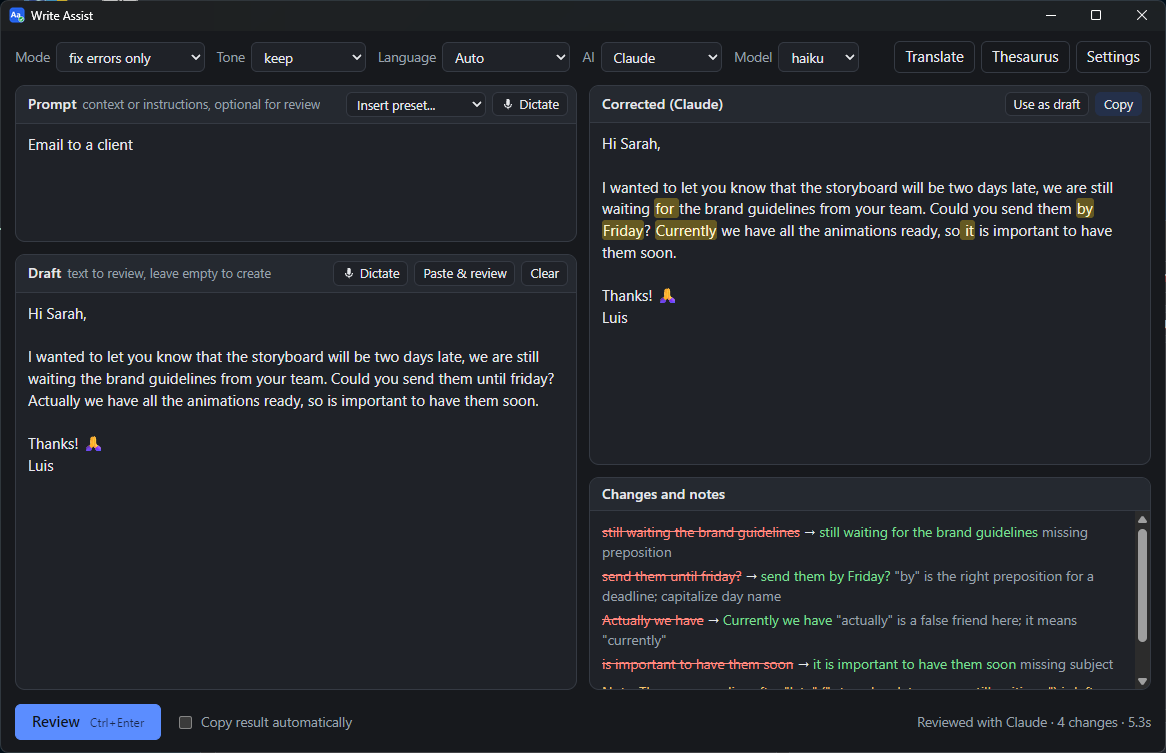
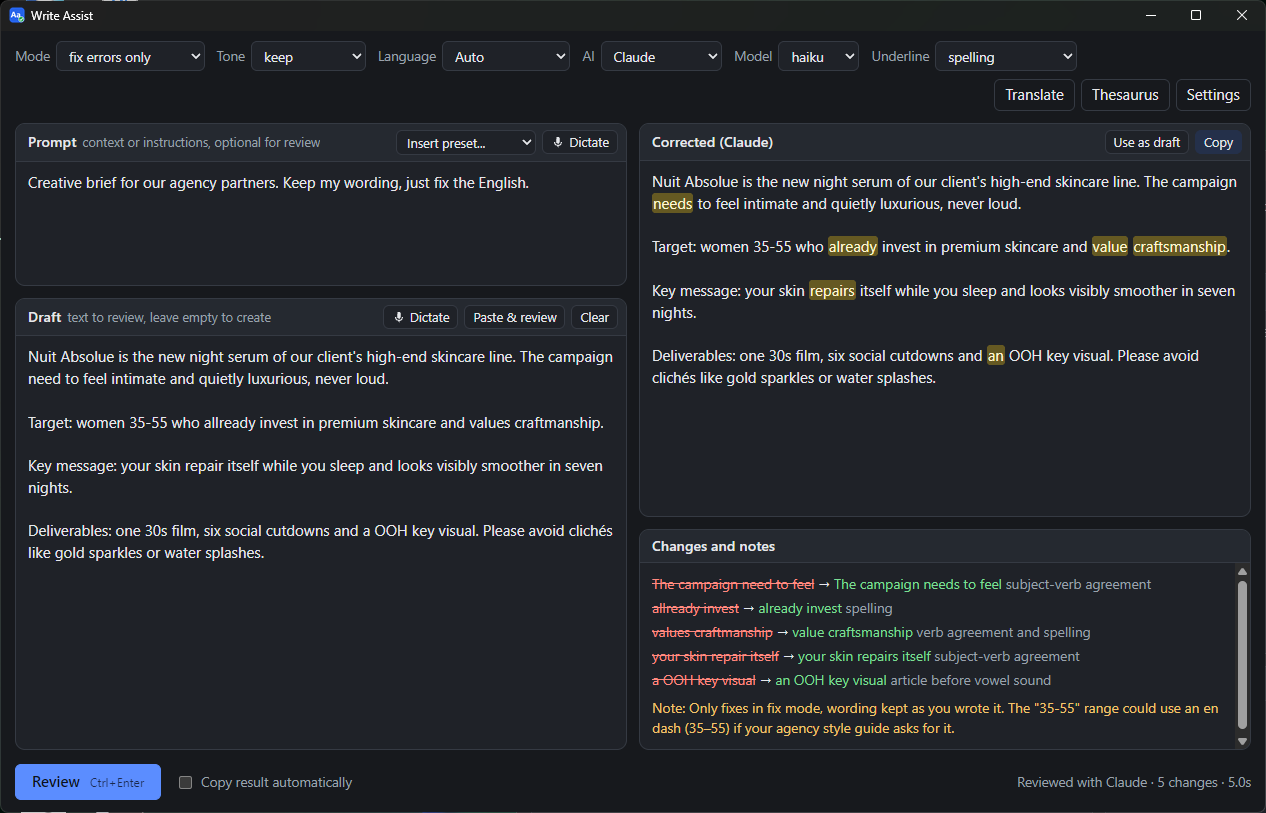
v02.08.03: French interface, French dictation option, no repeated changes; new README screenshots

diff --git a/ui/i18n.js b/ui/i18n.js
@@ -1,11 +1,11 @@
 // i18n.js
-// Interface strings of Write Assist in English and Spanish, and the helpers
+// Interface strings of Write Assist in English, Spanish and French, and the helpers
 // that apply them: t(key, vars) for text built in app.js, and data-i18n*
 // attributes for the static text in index.html.
 //
 // Author:  Luis Martinez
 // Email:   16788942+luigihmtz@users.noreply.github.com
-// Version: v01.07.00
+// Version: v01.08.00
 // Date:    2026-11-25
 //
 // Usage: loaded by ui/index.html before app.js. In index.html:
@@ -168,6 +168,7 @@ const STRINGS = {
     "settings.detect": "Detect automatically",
     "settings.english": "English",
     "settings.spanish": "Spanish",
+    "settings.french": "French",
     "settings.microphone": "Microphone for dictation",
     "settings.micDefault": "Same as Windows",
     "speech.micMissing": "\"{name}\" isn't connected, so the Windows default microphone is used.",
@@ -348,6 +349,7 @@ const STRINGS = {
     "settings.detect": "Detectar automáticamente",
     "settings.english": "Inglés",
     "settings.spanish": "Español",
+    "settings.french": "Francés",
     "settings.microphone": "Micrófono para dictar",
     "settings.micDefault": "El mismo que Windows",
     "speech.micMissing": "\"{name}\" no está conectado, así que se usa el micrófono predeterminado de Windows.",
@@ -381,6 +383,186 @@ const STRINGS = {
     "update.title": "¿Actualizar Write Assist?",
     "update.text": "¿Actualizar de {from} a {to}? La aplicación se cierra, una ventana muestra la actualización y la aplicación se vuelve a abrir.",
     "update.yes": "Actualizar",
+  },
+
+  fr: {
+    "mode": "Mode",
+    "mode.title": "Révision seulement : à quel point modifier le brouillon",
+    "mode.fix": "corriger les fautes",
+    "mode.fix.title": "Orthographe, coquilles, grammaire, ponctuation. Modifications minimales.",
+    "mode.polish": "corriger et améliorer",
+    "mode.polish.title": "Améliore aussi les tournures maladroites ou peu claires.",
+    "tone": "Ton",
+    "tone.keep": "inchangé",
+    "tone.formal": "plus formel",
+    "tone.casual": "plus décontracté",
+    "tone.friendlier": "plus chaleureux",
+    "tone.concise": "plus concis",
+    "language": "Langue",
+    "language.title": "Langue du texte : la révision la respecte, la création l'utilise",
+    "language.auto": "Auto",
+    "ai": "IA",
+    "ai.local": "Locale (gratuite)",
+    "local.setupTitle": "Configurer l'IA locale gratuite ?",
+    "local.setupText": "Write Assist peut utiliser une IA gratuite qui fonctionne sur cet ordinateur : sans compte ni abonnement, hors ligne, et votre texte ne quitte jamais votre PC. Il faut un téléchargement unique d'environ {download} Go (l'application gratuite Ollama et le modèle {model}), soit environ {disk} Go d'espace disque. Une révision prend une ou deux secondes sur un PC rapide et jusqu'à une minute sur un portable plus ancien. Claude donne de meilleurs résultats si vous l'avez.",
+    "local.modelText": "Le modèle {model} est gratuit et fonctionne sur cet ordinateur ; votre texte ne quitte jamais votre PC. Il faut un téléchargement unique d'environ {download} Go.",
+    "local.download": "Télécharger",
+    "local.installing": "Installation d'Ollama, l'application gratuite d'IA locale (une seule fois, quelques minutes)...",
+    "local.downloading": "Téléchargement de l'IA locale gratuite... {percent} % ({done} sur {total} Go)",
+    "local.ready": "L'IA locale gratuite est prête.",
+    "local.notSetUp": "L'IA locale gratuite n'est pas encore configurée. Choisissez-la de nouveau, ou cliquez sur Réviser, pour la télécharger.",
+    "model": "Modèle",
+    "model.other": "Autre...",
+    "model.otherPrompt": "Nom du modèle, tel que l'IA l'accepte (p. ex. claude-sonnet-5-5) :",
+    "translate": "Traduire",
+    "translate.title": "Traduire le texte sélectionné (Ctrl+Maj+T)",
+    "thesaurus": "Synonymes",
+    "thesaurus.title": "Sens, synonymes et antonymes du mot sélectionné (Ctrl+T)",
+    "settings": "Paramètres",
+    "settings.title": "À propos de vous, raccourci, dictée, langue de l'interface",
+
+    "prompt": "Consigne",
+    "prompt.hint": "contexte ou instructions, facultatif pour la révision",
+    "prompt.placeholder": "p. ex. Courriel à un client, raccourcis-le",
+    "preset": "Insérer un modèle...",
+    "preset.title": "Insérer une consigne courante",
+    "draft": "Brouillon",
+    "draft.hint": "texte à réviser, laissez vide pour créer",
+    "draft.placeholder": "Collez ou tapez votre texte",
+    "dictate": "Dicter",
+    "dictate.prompt": "Dicter dans la Consigne",
+    "dictate.draft": "Dicter dans le Brouillon",
+    "dictate.stop": "Arrêter {time}",
+    "paste": "Coller et réviser",
+    "paste.title": "Coller le presse-papiers et réviser (Ctrl+Maj+V)",
+    "clear": "Effacer",
+    "result": "Résultat",
+    "result.placeholder": "Le texte corrigé ou rédigé s'affiche ici.",
+    "result.corrected": "Corrigé ({provider})",
+    "result.written": "Rédigé ({provider})",
+    "useDraft": "Utiliser comme brouillon",
+    "useDraft.title": "Placer le résultat dans le Brouillon",
+    "copy": "Copier",
+    "copy.title": "Copier le résultat (Ctrl+Maj+C)",
+    "changes": "Modifications et notes",
+    "changes.none": "Aucune modification nécessaire. C'est parfait.",
+    "changes.note": "Note : {text}",
+
+    "run.review": "Réviser",
+    "run.create": "Créer",
+    "autoCopy": "Copier le résultat automatiquement",
+    "update.button": "Mettre à jour vers {tag}",
+
+    "status.empty": "Collez un brouillon à réviser, ou écrivez une consigne pour créer un texte.",
+    "status.notInstalled": "{provider} n'est pas installé. Relancez le programme d'installation de Write Assist.",
+    "status.reviewing": "Révision avec {provider}... {seconds} s",
+    "status.writing": "Rédaction avec {provider}... {seconds} s",
+    "status.reviewed": "Révisé avec {provider} · {count} modifications",
+    "status.reviewedOne": "Révisé avec {provider} · 1 modification",
+    "status.written": "Rédigé avec {provider}",
+    "status.copiedSuffix": "copié",
+    "status.fallback": "{from} a atteint sa limite d'utilisation{why}, {provider} a pris le relais",
+    "status.copied": "Copié.",
+    "status.clipboardEmpty": "Le presse-papiers ne contient pas de texte.",
+    "status.settingsSaved": "Paramètres enregistrés.",
+    "status.settingsSavedHotkey": "Paramètres enregistrés. Raccourci : {message}",
+    "status.updateFailed": "Impossible de lancer la mise à jour : {error}",
+
+    "panel.detach": "Détacher : le panneau flotte, déplacez-le par sa barre de titre, redimensionnez-le par le coin",
+    "panel.dock": "Rattacher le panneau",
+    "th.back": "Revenir au mot précédent",
+    "th.search": "Tapez un mot et appuyez sur Entrée",
+    "th.close": "Fermer (Échap)",
+    "th.replace": "Remplacer",
+    "th.lookup": "Rechercher",
+    "th.replace.title": "Remplacer « {old} » par « {new} »",
+    "th.lookup.title": "Chercher « {word} » dans les synonymes",
+    "th.empty": "Sélectionnez un mot dans la Consigne, le Brouillon ou le résultat avant de cliquer sur Synonymes, ou tapez un mot ci-dessus et appuyez sur Entrée.",
+    "th.tooLong": "Sélectionnez un seul mot ou une courte expression.",
+    "th.looking": "Recherche de « {word} » avec {provider}...",
+    "th.target": "Cliquez sur un mot pour remplacer « {word} » dans votre texte, ou pour le rechercher.",
+    "th.meaning": "Sens",
+    "th.synonyms": "Synonymes",
+    "th.antonyms": "Antonymes",
+    "th.none": "Aucun",
+    "th.replaced": "« {old} » remplacé par « {new} ».",
+
+    "tr.to": "vers",
+    "tr.auto": "Anglais ⇄ Espagnol",
+    "tr.placeholder": "Sélectionnez du texte dans la Consigne, le Brouillon ou le résultat avant de cliquer sur Traduire, ou tapez-le ici.",
+    "tr.go": "Traduire",
+    "tr.working": "Traduction avec {provider}...",
+    "tr.meta": "{from} → {to}",
+    "tr.alternatives": "Autres options",
+    "tr.replace": "Remplacer la sélection",
+    "tr.replace.title": "Mettre la traduction à la place du texte sélectionné",
+    "tr.copy": "Copier",
+    "tr.useDraft": "Utiliser comme brouillon",
+    "tr.replaced": "La sélection a été remplacée par la traduction.",
+
+    "speech.setupTitle": "Configurer la dictée ?",
+    "speech.setupText": "La dictée fonctionne sur cet ordinateur : gratuite, hors ligne et privée. Il faut un téléchargement unique d'environ {mb} Mo (le moteur vocal et le modèle « {model} »). Vous pouvez choisir un modèle plus léger dans les Paramètres.",
+    "speech.download": "Télécharger",
+    "speech.installing": "Installation du moteur vocal (une seule fois, quelques minutes)...",
+    "speech.ready": "Moteur vocal prêt. Enregistrement...",
+    "speech.noMic": "Impossible d'utiliser le micro ({error}). Vérifiez Paramètres Windows > Confidentialité > Microphone.",
+    "speech.recording": "Enregistrement... cliquez de nouveau sur le bouton pour arrêter (Échap annule).",
+    "speech.cancelled": "Enregistrement annulé.",
+    "speech.nothing": "Rien n'a été enregistré.",
+    "speech.downloadingModel": "Téléchargement du modèle vocal (une seule fois), puis transcription...",
+    "speech.transcribing": "Transcription...",
+    "speech.noSpeech": "Aucune parole reconnue. Réessayez, un peu plus près du micro.",
+    "speech.added": "Dictée ajoutée.",
+
+    "settings.welcome": "Bienvenue dans Write Assist",
+    "settings.welcomeText": "Dites-en un peu à Write Assist sur vous, pour qu'il corrige et écrive comme vous. Vous pouvez modifier cela à tout moment dans les Paramètres.",
+    "settings.about": "À propos de vous",
+    "settings.aboutHint": "Votre langue maternelle, les langues dans lesquelles vous écrivez, ce que vous écrivez d'habitude, votre nom.",
+    "settings.aboutPlaceholder": "p. ex. Francophone de naissance. J'écris surtout en anglais au travail (courriels, Teams) et parfois en français. Je m'appelle ...",
+    "settings.hotkey": "Raccourci global",
+    "settings.hotkeyHint": "Ouvre Write Assist depuis n'importe quelle application, p. ex. Win+Ctrl+W ou Ctrl+Alt+F9.",
+    "settings.speechModel": "Modèle vocal",
+    "settings.speechBase": "base (plus rapide, 145 Mo)",
+    "settings.speechSmall": "small (recommandé, 465 Mo)",
+    "settings.speechMedium": "medium (plus précis, 1,5 Go)",
+    "settings.speechLanguage": "Langue de la dictée",
+    "settings.detect": "Détection automatique",
+    "settings.english": "Anglais",
+    "settings.spanish": "Espagnol",
+    "settings.french": "Français",
+    "settings.microphone": "Micro pour la dictée",
+    "settings.micDefault": "Le même que Windows",
+    "speech.micMissing": "« {name} » n'est pas branché : le micro par défaut de Windows est utilisé.",
+    "check.label": "Souligner",
+    "check.title": "Souligner les fautes dans la Consigne et le Brouillon pendant la frappe",
+    "check.off": "non",
+    "check.spelling": "orthographe",
+    "check.grammar": "orthographe + grammaire",
+    "check.offHint": "Aucune ligne dans la Consigne et le Brouillon.",
+    "check.spellingHint": "Mots mal orthographiés seulement, avec le correcteur intégré à Windows. Gratuit, rien à télécharger.",
+    "check.grammarHint": "Orthographe, grammaire et style, dans la langue de chaque paragraphe ; cliquez sur une faute pour voir des suggestions. Gratuit, fonctionne sur ce PC ; téléchargement unique d'environ 300 Mo.",
+    "lt.setupTitle": "Configurer la vérification grammaticale en direct ?",
+    "lt.setupText": "La vérification en direct utilise LanguageTool, un correcteur gratuit et open source qui fonctionne sur cet ordinateur : sans compte, et votre texte ne quitte jamais votre PC. Il faut un téléchargement unique d'environ {download} Mo (LanguageTool et le Java qui le fait tourner), soit environ {disk} Mo d'espace disque.",
+    "lt.download": "Télécharger",
+    "lt.downloading": "Téléchargement du correcteur grammatical... {percent} % ({done} sur {total} Mo)",
+    "lt.ready": "La vérification en direct est activée : les fautes sont soulignées pendant la frappe. Cliquez sur l'une d'elles pour voir des suggestions.",
+    "lt.starting": "Démarrage du correcteur grammatical...",
+    "lt.ignore": "Ignorer",
+    "lt.noSuggestions": "Aucune suggestion.",
+    "settings.uiLanguage": "Langue de l'interface",
+    "settings.uiAuto": "La même que Windows",
+    "settings.version": "Version {version}",
+    "settings.devCopy": " (copie de développement, sans mises à jour automatiques)",
+    "settings.hotkeyFailed": "Enregistré, mais le raccourci n'a pas pu être activé : {message}. Essayez-en un autre.",
+    "cancel": "Annuler",
+    "skip": "Passer",
+    "save": "Enregistrer",
+    "notNow": "Plus tard",
+    "ok": "OK",
+
+    "update.title": "Mettre à jour Write Assist ?",
+    "update.text": "Mettre à jour de {from} vers {to} ? L'application se ferme, une fenêtre affiche la mise à jour, puis l'application se rouvre.",
+    "update.yes": "Mettre à jour",
   },
 };
 

diff --git a/ui/index.html b/ui/index.html
@@ -7,7 +7,7 @@ buttons, settings dialog. Rendered by writeAssist.pyw in a WebView2 window.
 
 Author:  Luis Martinez
 Email:   16788942+luigihmtz@users.noreply.github.com
-Version: v01.08.00
+Version: v01.09.00
 Date:    2026-11-25
 
 Usage: loaded by writeAssist.pyw through pywebview; talks to Python through
@@ -212,6 +212,7 @@ Usage: loaded by writeAssist.pyw through pywebview; talks to Python through
             <option value="" data-i18n="settings.detect">Detect automatically</option>
             <option value="en" data-i18n="settings.english">English</option>
             <option value="es" data-i18n="settings.spanish">Spanish</option>
+            <option value="fr" data-i18n="settings.french">French</option>
           </select>
         </label>
         <label class="block"><span data-i18n="settings.uiLanguage">Interface language</span>
@@ -219,6 +220,7 @@ Usage: loaded by writeAssist.pyw through pywebview; talks to Python through
             <option value="" data-i18n="settings.uiAuto">Same as Windows</option>
             <option value="en">English</option>
             <option value="es">Español</option>
+            <option value="fr">Français</option>
           </select>
         </label>
       </div>

diff --git a/waCore.py b/waCore.py
@@ -8,8 +8,8 @@
 #
 # Author:  Luis Martinez
 # Email:   16788942+luigihmtz@users.noreply.github.com
-# Version: v01.05.01
-# Date:    2026-11-24
+# Version: v01.05.02
+# Date:    2026-11-25
 #
 # Usage: imported by writeAssist.pyw. Per-user files live in
 #        %APPDATA%\WriteAssist (user_settings.json, state.json); product
@@ -557,6 +557,24 @@ def build_text_message(task, prompt, draft, mode, tone, language=""):
     return "\n".join(parts)
 
 
+def drop_repeated_changes(changes):
+    """Models sometimes list one fix twice: alone ("allready" -> "already") and
+    inside a longer snippet ("who allready invest" -> "who already invest").
+    A change is dropped when applying a smaller listed change to its original
+    gives exactly its fix, so it adds nothing."""
+    keep = []
+    for change in changes:
+        original, fixed = str(change.get("original", "")), str(change.get("fixed", ""))
+        repeated = any(
+            other is not change and other.get("original") and other["original"] != original
+            and other["original"] in original
+            and original.replace(other["original"], str(other.get("fixed", "")), 1) == fixed
+            for other in changes)
+        if not repeated:
+            keep.append(change)
+    return keep
+
+
 def run_text_task(provider_name, provider, model, task, prompt, draft, mode, tone, profile, timeout,
                   language=""):
     """Review or Create. Returns {text, changes, notes, spans}."""
@@ -567,6 +585,7 @@ def run_text_task(provider_name, provider, model, task, prompt, draft, mode, ton
         raise RuntimeError("The reply had no text.")
     changes = [c for c in (result.get("changes") or [])
                if isinstance(c, dict) and c.get("original") != c.get("fixed")]  # drop no-op entries
+    changes = drop_repeated_changes(changes)
     # Models occasionally over-escape quotes inside explanations.
     for item in changes:
         item["reason"] = str(item.get("reason") or "").replace('\\"', '"')

diff --git a/README.md b/README.md
@@ -5,13 +5,13 @@
 A small Windows app that reviews and writes text with AI: messages, emails,
 posts, docs. Paste what you wrote and get it proofread, or describe what you
 need and get it written. It also has a context-aware thesaurus and offline
-dictation, a translator, live grammar underlines, and an English or Spanish
-interface. It works with
+dictation, a translator, live grammar underlines, and an English, Spanish or
+French interface. It works with
 your existing Claude subscription through Claude Code, or with a **free AI that
 runs on your own computer**, so there are no API keys and nothing extra to pay.
 ChatGPT and GitHub Copilot plans work too.
 
-![Write Assist reviewing a client email: the corrected text with the edits highlighted, and each change listed with its reason](assets/screenshot.png)
+![Write Assist reviewing a creative brief: the prompt gives the context, the corrected text has the edits highlighted, and each change is listed with its reason](assets/screenshot.png)
 
 ## Install
 
@@ -79,7 +79,9 @@ Press **Ctrl+Enter**, then **Copy** the result.
 | **Panels** | Thesaurus and Translate open next to the text they work on, and that text stays highlighted in yellow. **⧉** detaches a panel: drag it anywhere by its title bar, and it stays open while you keep working. Drag the bottom-right corner to resize it; **⧉** again docks it. |
 | **Translate** | Select text (a word, a sentence, a paragraph) in Prompt, Draft or the result, then click *Translate* at the top or press **Ctrl+Shift+T**. Pick the target language; *English ⇄ Spanish* translates English into Spanish and anything else into English. The panel shows only the translation, with the original highlighted in place. Then **Replace selection**, **Use as draft** or **Copy**. For a single word it also offers other options; click one to swap it in. With nothing selected, the panel offers a box to type or paste text into. It asks the AI only when you translate. |
 | **Dictate** | Speak into Prompt or Draft; click again to stop (Esc cancels). Transcribed on your computer with faster-whisper: free, offline, private. The first time, it offers a one-time download (speech engine about 250 MB, plus the model: 465 MB for *small*). |
-| **Settings** | *About you*, the global hotkey, the microphone for dictation (by default the Windows one), the speech model and language, and the interface language (English or Spanish; by default the same as Windows). |
+| **Settings** | *About you*, the global hotkey, the microphone for dictation (by default the Windows one), the speech model and language, and the interface language (English, Spanish or French; by default the same as Windows). |
+
+![The Translate panel, with the French interface: the selected key message stays highlighted in the result while its French translation shows next to it](assets/screenshot-translate-fr.png)
 
 **Review** shows the corrected text with the edits highlighted, and below it
 each change (old → new) with a short reason, plus an optional note (e.g. "this
@@ -208,8 +210,8 @@ dictado por voz.
   gramática* (LanguageTool, gratuito y en tu computadora; haz clic en un error
   para ver sugerencias). La primera vez te avisa de la descarga (unos 300 MB)
   antes de bajar nada.
-- **El idioma de la app** sigue al de Windows. Puedes cambiarlo en
-  **Ajustes > Idioma de la interfaz**.
+- **El idioma de la app** (español, inglés o francés) sigue al de Windows.
+  Puedes cambiarlo en **Ajustes > Idioma de la interfaz**.
 
 ### Privacidad
 
@@ -232,7 +234,7 @@ haz clic en **Desinstalar**.
 | `waCore.py` | Settings, Review/Create, Thesaurus and Translate requests to the AIs (Claude Code, Copilot CLI, Ollama), the local AI's setup, usage-limit fallback, edit highlighting, update check. |
 | `waSpeech.py` | Offline dictation with faster-whisper, installed on first use. |
 | `waGrammar.py` | Live grammar check with a self-hosted LanguageTool server, installed on first use. |
-| `ui/` | The window's page: `index.html`, `style.css`, `app.js`, and `i18n.js` with the English and Spanish interface text. |
+| `ui/` | The window's page: `index.html`, `style.css`, `app.js`, and `i18n.js` with the English, Spanish and French interface text. |
 | `hotkeyListener.pyw` | Background listener for the global hotkey; opens or wakes the app. |
 | `system_prompt.md` | Instructions for both tasks, shared by all AIs. `{{profile}}` becomes the user's *About you*. |
 | `settings.json` | Shipped defaults: hotkey, AIs and models, timeout, font, prompt presets. |
@@ -241,7 +243,7 @@ haz clic en **Desinstalar**.
 | `uninstall.ps1` | Removes the app, shortcuts and settings. |
 | `release.ps1` | Publishes a new version (maintainer only). |
 | `assets/writeAssist.ico` | Icon. |
-| `assets/screenshot.png` | The screenshot in this README. |
+| `assets/screenshot.png`, `assets/screenshot-translate-fr.png` | The screenshots in this README. |
 | `LICENSE` | MIT license. |
 
 Per-user files, kept across updates, in `%APPDATA%\WriteAssist\`:

diff --git a/CHANGELOG.md b/CHANGELOG.md
@@ -1,5 +1,12 @@
 # Changelog
 
+## v02.08.03 - 2026-11-25
+
+- The interface is now also in French (Settings > Interface language; by
+  default the same as Windows), and dictation can be set to French.
+- Reviews no longer list the same fix twice (once on its own and once inside
+  a longer snippet).
+
 ## v02.08.02 - 2026-11-25
 
 - *Spelling only* now checks Spanish (Mexico) as well as English, so correct
